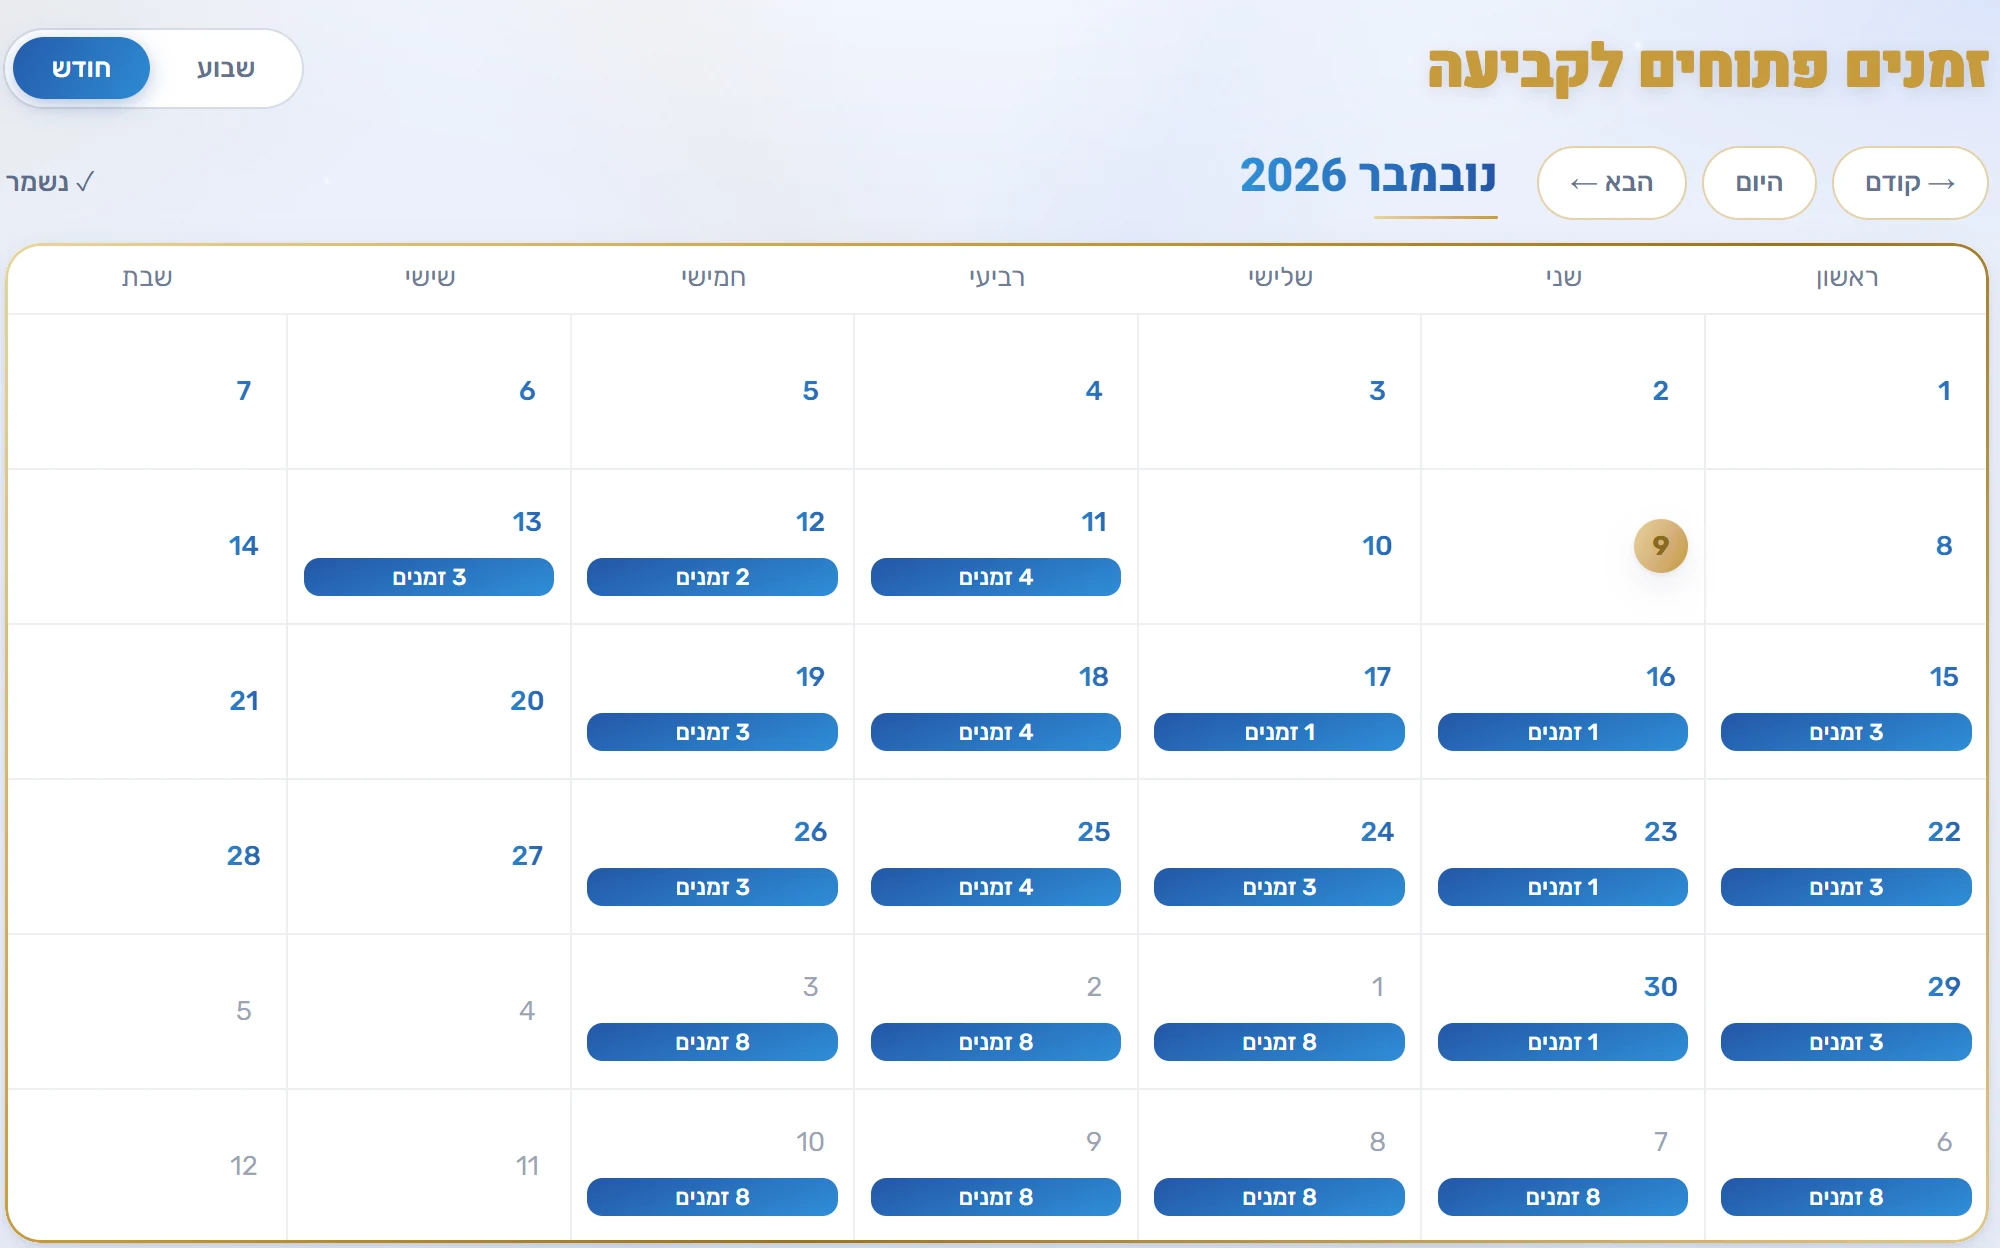
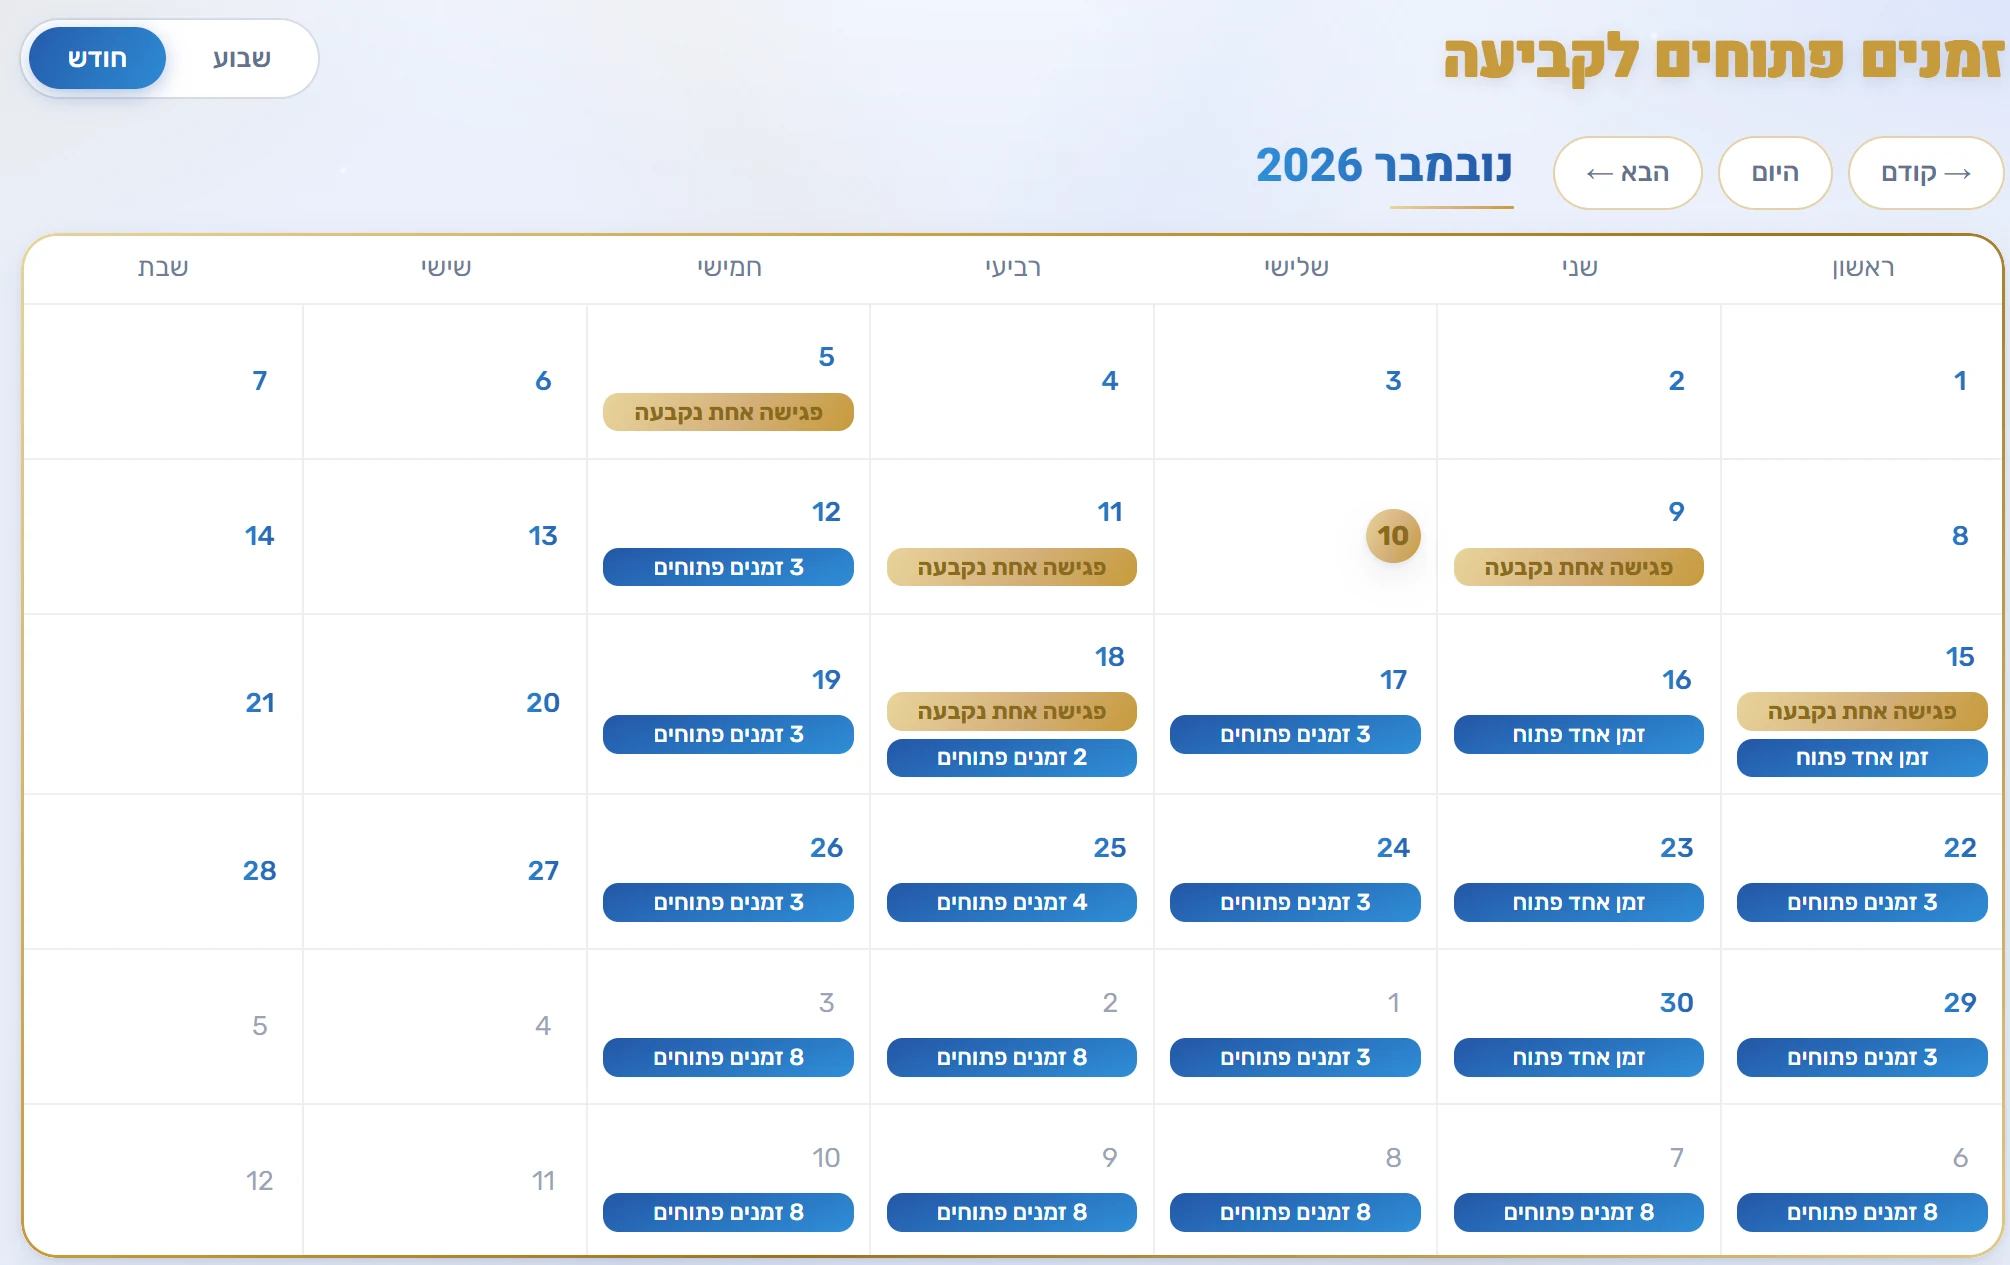
yoman: תצוגת חודש חדשה - פגישות שנקבעו בזהב וזמנים פתוחים בכחול

diff --git a/yoman/index.html b/yoman/index.html
@@ -266,9 +266,9 @@
         </div>
         <div>
           <h4 class="feat-sub"><span aria-hidden="true">📆</span> ואפשר לראות גם את כל החודש</h4>
-          <p>בתצוגת החודש רואים <b>בכל יום כמה זמנים פתוחים לקביעה,</b> ועוברים לחודש הבא בלחיצה.</p>
+          <p>בתצוגת החודש רואים בכל יום <b>בזהב כמה פגישות עם לקוחות כבר נקבעו,</b> ובכחול כמה זמנים עוד פתוחים לקביעה. ועוברים לחודש הבא בלחיצה.</p>
         </div>
-        <figure class="shot"><img src="/assets/img/yoman/month.webp?v=2" width="2000" height="1248" loading="lazy" alt="תצוגת החודש: בכל יום כמה זמנים פתוחים לקביעה" /></figure>
+        <figure class="shot"><img src="/assets/img/yoman/month.webp?v=3" width="2010" height="1265" loading="lazy" alt="תצוגת החודש: בזהב הפגישות שנקבעו בכל יום, ובכחול כמה זמנים עוד פתוחים" /></figure>
       </div>
     </section>
 
